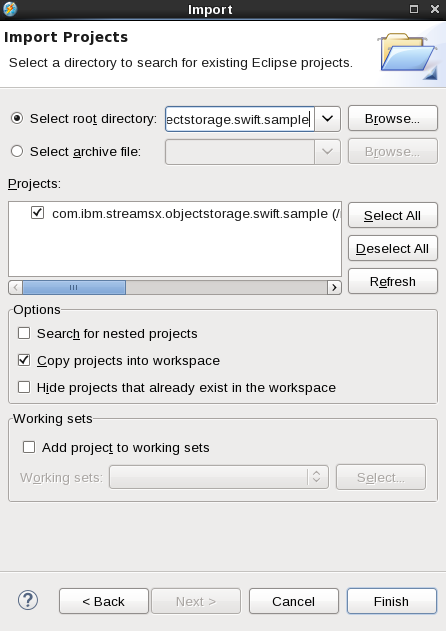
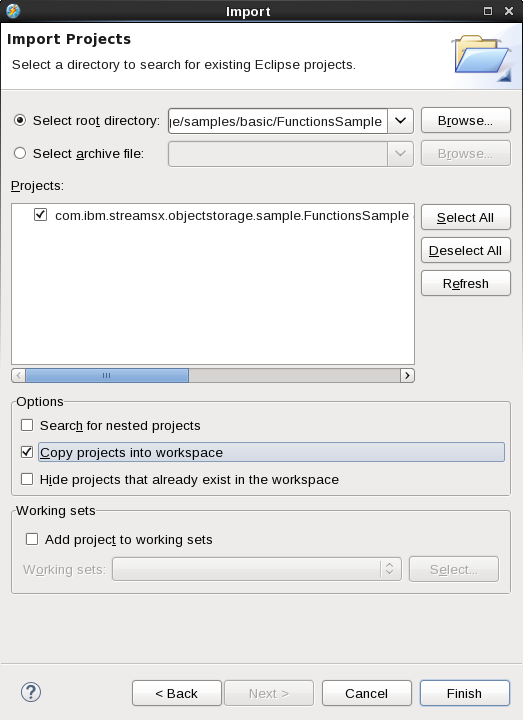
update user documentation pages

Changed region(s): [[0.0, 0.0, 1.0, 0.813], [0.0, 0.9033, 0.991, 0.9937]]

diff --git a/_docs/01_03-build-the-samples.md b/_docs/01_03-build-the-samples.md
@@ -19,7 +19,7 @@ Run the following command in the `streamsx.objectstorage` directory to build all
 
 ## Build the sample in Streams Studio
 
-* Add the *com.ibm.streamsx.inet* toolkit (from GitHub) and the *com.ibm.streamsx.objectstorage* toolkit to Streams Studio by following the “Procedure” section of [Adding toolkit locations](https://www.ibm.com/support/knowledgecenter/en/SSCRJU_4.2.0/com.ibm.streams.studio.doc/doc/tusing-working-with-toolkits-adding-toolkit-locations.html).
-* Import a sample project, for example **com.ibm.streamsx.objectstorage.swift.sample**, into Streams Studio from the `streamsx.objectstorage/samples` directory. If the project doesn’t build successfully, make sure you have added the already built *com.ibm.streamsx.inet* toolkit (from GitHub) and the *com.ibm.streamsx.objectstorage* toolkit to Streams Studio. If you import the project with the option "Copy projects into workspace" selected, then you will find the application bundle file in the `<workspace>/com.ibm.streamsx.objectstorage.swift.sample/output` directory.
+* Add the *com.ibm.streamsx.objectstorage* toolkit to Streams Studio by following the “Procedure” section of [Adding toolkit locations](https://www.ibm.com/support/knowledgecenter/en/SSCRJU_4.2.0/com.ibm.streams.studio.doc/doc/tusing-working-with-toolkits-adding-toolkit-locations.html).
+* Import a sample project, for example **com.ibm.streamsx.objectstorage.sample.FunctionsSample**, into Streams Studio from the `streamsx.objectstorage/samples/basic` directory. If you import the project with the option "Copy projects into workspace" selected, then you will find the application bundle file in the `<workspace>/com.ibm.streamsx.objectstorage.sample.FunctionsSample/output` directory.
 
 ![Import](/streamsx.objectstorage/doc/images/import.png)

diff --git a/_docs/01_02-getting-started-with-object-storage-service.md b/_docs/01_02-getting-started-with-object-storage-service.md
@@ -11,24 +11,15 @@ sidebar:
 {% include toc %}
 {%include editme %}
 
-The streamsx.objectstorage toolkit supports the following Object Storage services on Bluemix:
+The streamsx.objectstorage toolkit supports the Cloud Object Storage service on IBM Cloud:
 
-![Import](/streamsx.objectstorage/doc/images/COS.png)
-![Import](/streamsx.objectstorage/doc/images/Object Storage.png)
+![Import](/streamsx.objectstorage/doc/images/COS_lite.png)
 
-This guide describes the steps for the [Object Storage](https://console.ng.bluemix.net/docs/services/ObjectStorage/os_works_public.html) service.
-Select the service, choose "Free" as pricing plan and create it.
 
-When the service is created, you need to create the service credentials.
+Select the [Cloud Object Storage](https://console.bluemix.net/catalog/infrastructure/object-storage-group) service, choose "Lite" as pricing plan and create it.
 
-![Import](/streamsx.objectstorage/doc/images/Credentials.png)
+When the service is created, you need to create the service credentials. Select the "Writer" access role.
 
-The sample application of the toolkit (**com.ibm.streamsx.objectstorage.swift.sample**) has the following submission time parameters that needs to be set with the credentials marked in red.
-
-* ObjectStorage-ProjectId
-* ObjectStorage-UserId
-* ObjectStorage-Password
-
-If you have selected London as region, then you need to apply the `ObjectStorage-AccessPoint` parameter with the value `lon.objectstorage.open.softlayer.com`. Dallas is the default region.
+![Import](/streamsx.objectstorage/doc/images/cos_service_credentials)
 
 
